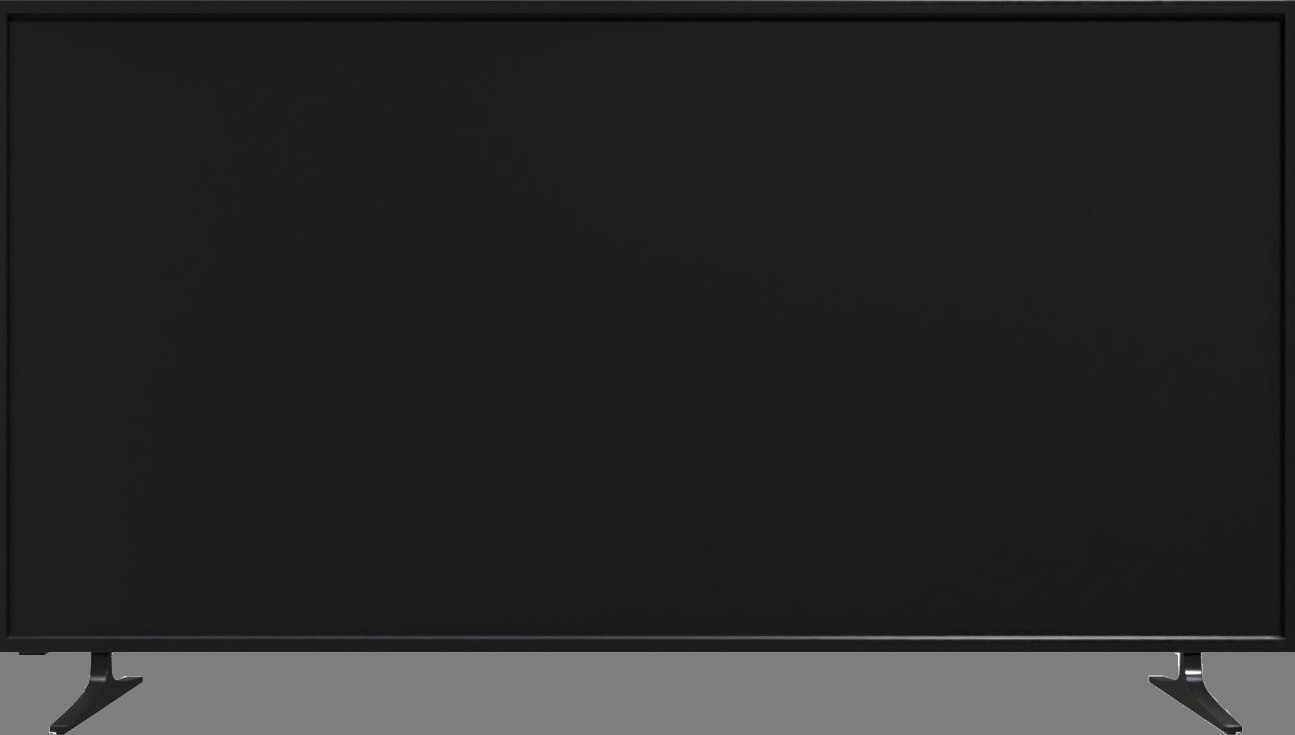
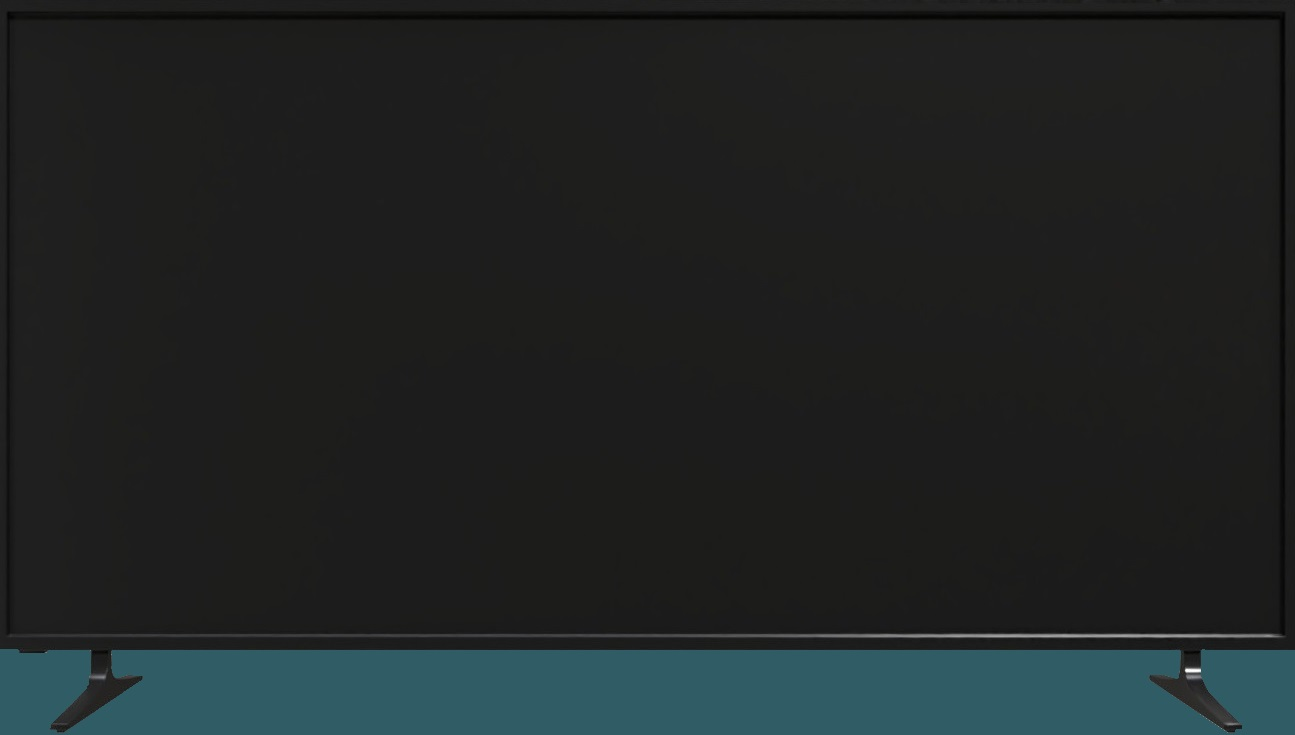
color pallette applied

Changed region(s): [[0.0, 0.8381, 1.0, 1.0]]

diff --git a/style.css b/style.css
@@ -1,7 +1,7 @@
 html, body {
     margin: 0;
     height: 100%;
-    background-color: grey;
+    background-color: #305C66 ;
 }
 
 section {
@@ -17,6 +17,16 @@ section {
     font-weight: bold;
     font-size: 24px;
 }
+
+#nav-bar {
+    background-color: #B49581;
+    color: #FCFAF1;
+}
+
+#active-nav {
+    font-weight: bold;
+}
+
 nav {
     margin-bottom: 20px;
 }
@@ -27,18 +37,20 @@ nav {
     align-items: center;
     font-weight: bold;
     font-size: 24px;
-    color: white;
     text-align: center;
-    background: black;
-    margin-bottom: 5px;
-    border-width: 3px;
-    border-style: solid;
-    border-color: darkblue;
+    background-color: #F0CB76 ;
+    color: #305C66 ;
+    margin-bottom: 15px;
+    box-shadow: 5px 5px #B49581;
 }
 #find-movie {
     width: 100%;
+    box-shadow: 5px 5px #B49581;
 }
-
+#name-input {
+    box-shadow: 5px 5px #B49581;
+    background-color: FCFAF1;
+}
 /*Results Area*/
 article {
     padding: 20px;
@@ -49,10 +61,13 @@ article {
     -moz-background-size: 100% 100%;
     -webkit-background-size: 100% 100%;
     background-size: 100% 100%;
-    color: white;
+    color: #F0CB76 ;
     font-weight: bold;
     font-size: 24px;
     height: 100%;
+}
+#main-display span {
+    color: #FCFAF1;
 }
 .show-image {
     text-align: center;
@@ -77,17 +92,26 @@ article {
 section {
     margin-top: 52px;
 }
-
+#find-movie {
+    font-weight: bold;
+    font-size: 24px;
+    background-color: #F0CB76 ;
+    color: #305C66 ;
+}
 #save-button-index {
     font-weight: bold;
     width: 60%;
-    margin-bottom: 5px;
+    margin-bottom: 5px;    
+    background-color: #F0CB76 ;
+    color: #305C66 ;
 }
 #unsave-button-index {
     font-weight: bold;
     font-size: 14px;
     width: 60%;
     margin-bottom: 5px;
+    background-color: #F0CB76 ;
+    color: #305C66 ;
 }
 
 article img {
@@ -98,10 +122,7 @@ article img {
 #favorites-title {
     background-color: black;
     position: relative;
-    border: darkblue;
-    border-width: 3px;
-    border-style: solid;
-    color: white;
+    color: #FCFAF1;
     margin: auto;
     text-align: center;
     font-weight: bold;
@@ -113,9 +134,6 @@ article img {
 .show-article {
     background-color: black;
     position: relative;
-    border: darkblue;
-    border-width: 3px;
-    border-style: solid;
     color: white;
 }
 
@@ -139,8 +157,6 @@ article img {
     background-color: black;
     height: 100%;
     position: relative;
-    border-color: white;
-    border-width: 2px;
 }
 
 .show-article img {
@@ -157,6 +173,8 @@ footer {
 #clear-shows {
     width: 60%;
     font-weight: bold;
+    color: #305C66 ;
+    background-color: #F0CB76 ;
 }
 
 
@@ -178,7 +196,7 @@ footer {
     margin: 0px;
     font-size: 20px;
     height: 1000px;
-    padding: 0px;
+    padding: 20px;
     padding-top: 40px;
     }
     article img {

diff --git a/index.html b/index.html
@@ -11,7 +11,7 @@
 
 <body>
     
-    <nav class="navbar is-black" role="navigation" aria-label="main navigation">
+    <nav id="nav-bar" class="navbar" role="navigation" aria-label="main navigation">
         <div id="home-header" class="navbar-brand">
             Entertainment Guide
         </div>
@@ -22,7 +22,7 @@
         </a>
         <div id="navbar-main" class="navbar-menu">
             <div class="navbar-start">
-                <a class="navbar-item" href="./index.html">
+                <a id="active-nav" class="navbar-item" href="./index.html">
                     Home
                 </a>
                 <a class="navbar-item" href="./favorites.html">
@@ -41,11 +41,11 @@
                 <div class="field"> 
                     <p id="search-menu-head">Let's find something to do!</p>
                     <div class="control">
-                      <input id="name-input" class="input is-black" type="text" placeholder="Movie/Show Title">
+                      <input id="name-input" class="input" type="text" placeholder="Movie/Show Title">
                     </div>
                 </div>
                 <div class="control">
-                    <button id="find-movie" class="button is-black">Search</button>
+                    <button id="find-movie" class="button">Search</button>
                 </div>
             </div>
         
@@ -62,7 +62,7 @@
                             <h id="summary">Summary: <span class="show-summary"></span></h><br>
                             <br>
                             <div class="buttons-div"></div>                        
-                            <input id="clear-shows" class="button is-black" type="submit" value="Remove all shows from saved shows">
+                            <input id="clear-shows" class="button" type="submit" value="Remove all shows from saved shows">
                         </div>
 
                         <div id="display-results" class="column">
